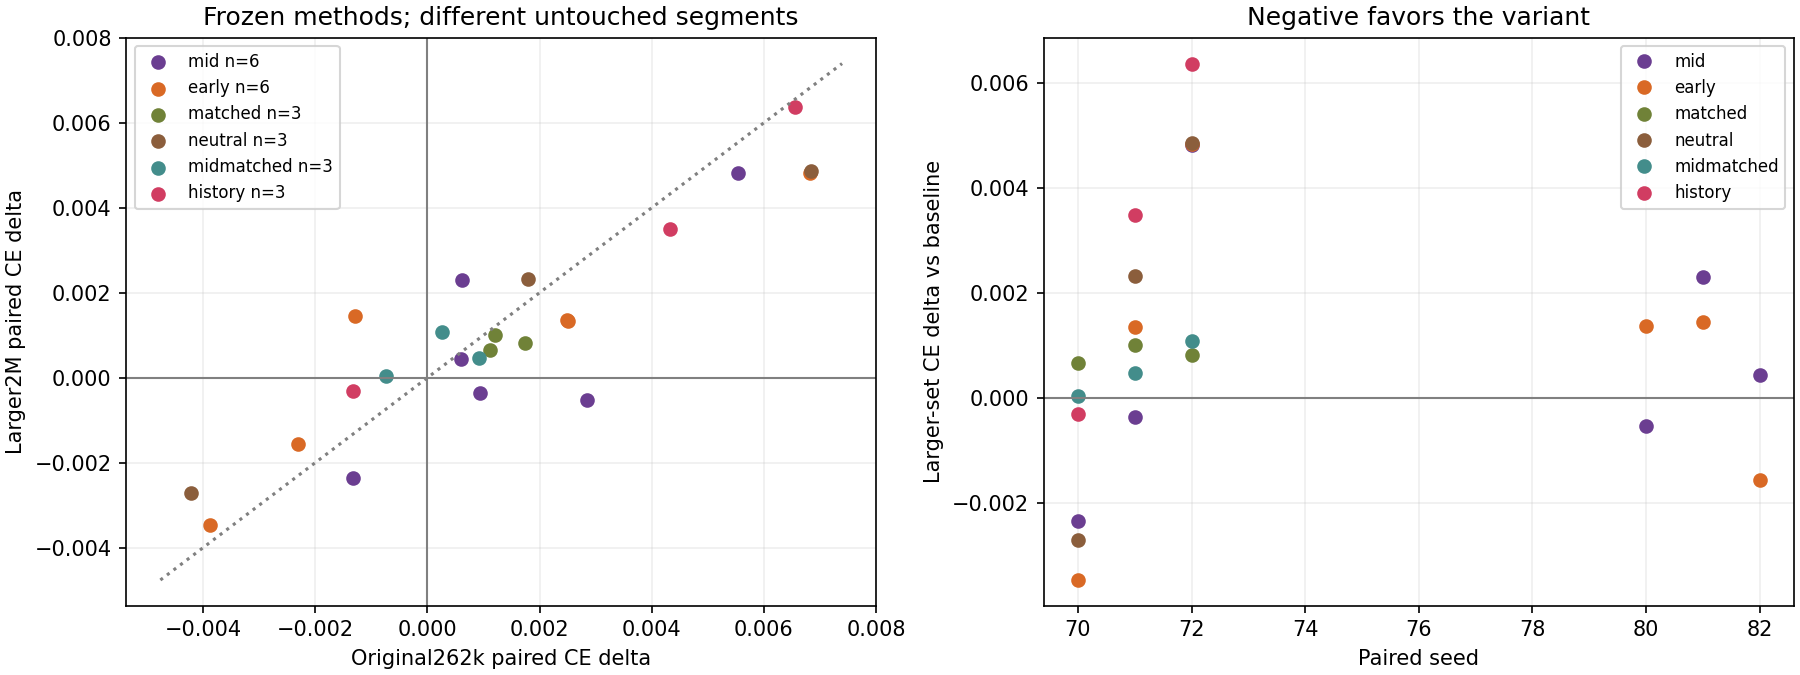
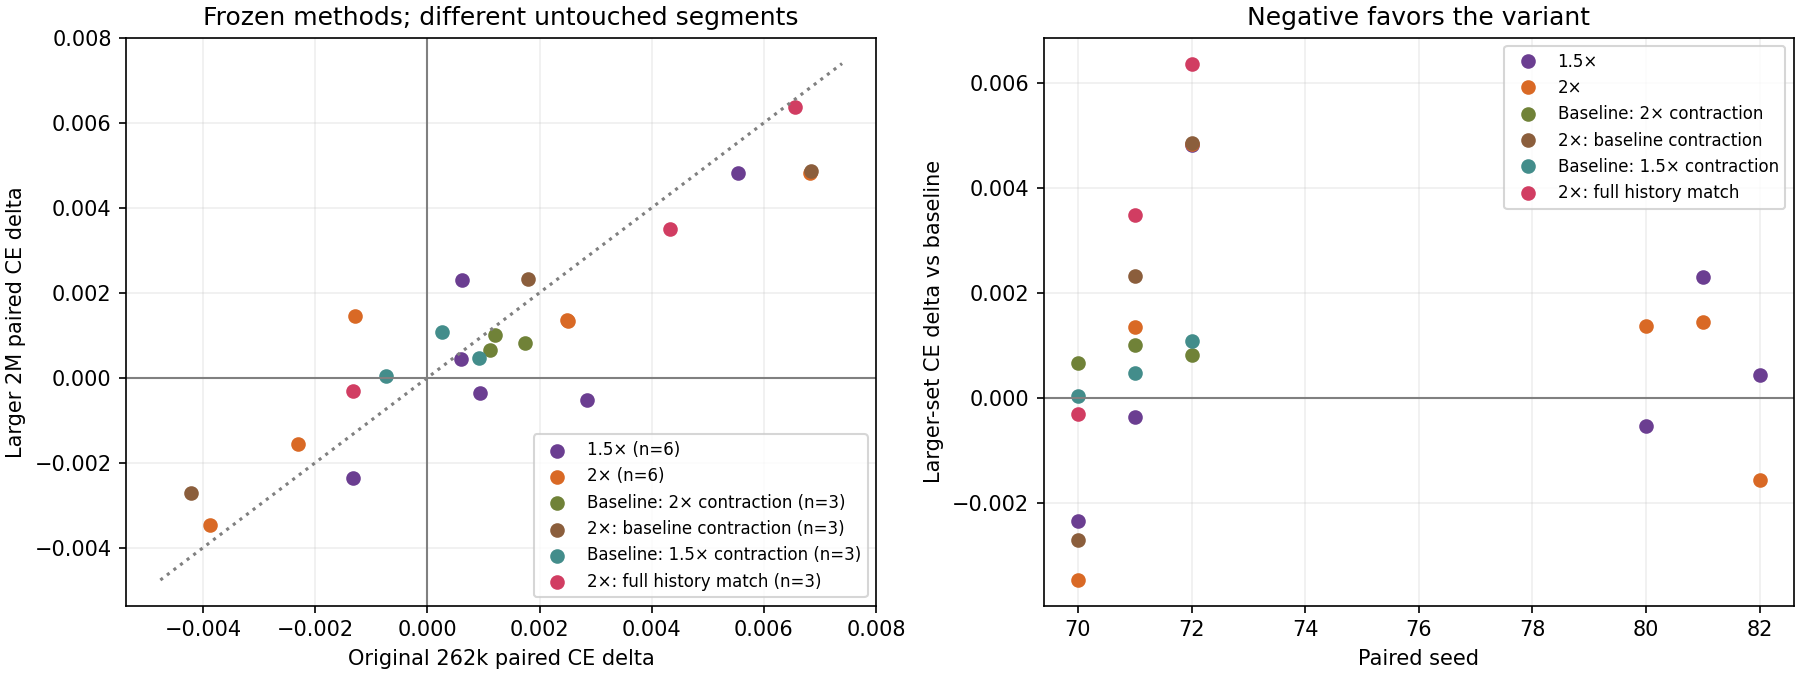
Use explicit early-peak and contraction labels in final research figures

diff --git a/research/unnormalized_muon/early_large_report.py b/research/unnormalized_muon/early_large_report.py
@@ -17,6 +17,7 @@ def main(name='um-earlyalloc-large-eval-001'):
     'This adds a new evaluation segment without replacing the original outcomes or changing any settings. Absolute CE differs across segments; compare paired method differences within a segment. The fixed-WD family has6seeds; contraction controls have3. Per-sequence nats/counts are retained outside Git; packed sequences can be dependent, so no independent-sequence significance claim is made.','',
     '| Seed | Arm | Original paired CE delta | Larger paired CE delta | Larger CE | Larger BPB |','|---|---|---:|---:|---:|---:|']
     stats={};fig,axs=plt.subplots(1,2,figsize=(12,4.5),layout='constrained')
+    labels=dict(mid='1.5×',early='2×',matched='Baseline: 2× contraction',neutral='2×: baseline contraction',midmatched='Baseline: 1.5× contraction',history='2×: full history match')
     colors=dict(mid='#6b3e91',early='#d96925',matched='#708238',neutral='#8b5e3c',midmatched='#438d8b',history='#d13d62')
     for r in sorted(scores,key=lambda r:(r['seed'],r['arm'])):
         b=lookup['baseline',r['seed']];old=r['original_heldout']['loss']-b['original_heldout']['loss'];new=r['large_heldout']['loss']-b['large_heldout']['loss']
@@ -26,8 +27,8 @@ def main(name='um-earlyalloc-large-eval-001'):
         assert len(rr)==(6 if arm in ['mid','early'] else 3)
         x=dict(n=len(rr),original_mean=statistics.mean(old),large_mean=statistics.mean(new),large_sample_sd=statistics.stdev(new),seeds=[r['seed'] for r in rr],large_deltas=new);stats[arm]=x
         lines+=['',f'{arm}: n={len(rr)}, original mean delta{x["original_mean"]:+.6f}; larger-set mean **{x["large_mean"]:+.6f}CE**, sampleSD **{x["large_sample_sd"]:.6f}**.']
-        axs[0].scatter(old,new,color=colors[arm],label=f'{arm} n={len(rr)}')
-        axs[1].plot([r['seed'] for r in rr],new,'o',color=colors[arm],label=arm)
+        axs[0].scatter(old,new,color=colors[arm],label=f'{labels[arm]} (n={len(rr)})')
+        axs[1].plot([r['seed'] for r in rr],new,'o',color=colors[arm],label=labels[arm])
     for arm,control in [('early','matched'),('mid','midmatched')]:
         rr=[r for r in scores if r['arm']==control];ds=[lookup[arm,r['seed']]['large_heldout']['loss']-r['large_heldout']['loss'] for r in rr]
         key=arm+'_vs_'+control;stats[key]=dict(n=len(ds),large_mean=statistics.mean(ds),large_sample_sd=statistics.stdev(ds),large_deltas=ds)
@@ -38,7 +39,7 @@ def main(name='um-earlyalloc-large-eval-001'):
     (D/'EARLY_ALLOCATION_LARGE_HELDOUT.md').write_text('\n'.join(lines)+'\n');(D/'EARLY_ALLOCATION_LARGE_HELDOUT.json').write_text(json.dumps(stats,indent=2)+'\n')
     limits=axs[0].axis();lo=min(limits[0],limits[2]);hi=max(limits[1],limits[3]);axs[0].plot([lo,hi],[lo,hi],':',color='gray')
     for ax in axs:ax.axhline(0,color='gray',lw=1);ax.grid(alpha=.2);ax.legend(fontsize=8)
-    axs[0].axvline(0,color='gray',lw=1);axs[0].set(xlabel='Original262k paired CE delta',ylabel='Larger2M paired CE delta',title='Frozen methods; different untouched segments')
+    axs[0].axvline(0,color='gray',lw=1);axs[0].set(xlabel='Original 262k paired CE delta',ylabel='Larger 2M paired CE delta',title='Frozen methods; different untouched segments')
     axs[1].set(xlabel='Paired seed',ylabel='Larger-set CE delta vs baseline',title='Negative favors the variant')
     fig.savefig(D/'EARLY_ALLOCATION_LARGE_HELDOUT.png',dpi=150);plt.close(fig)
 

diff --git a/research/unnormalized_muon/early_replication_report.py b/research/unnormalized_muon/early_replication_report.py
@@ -46,15 +46,15 @@ def main():
         available=[seed for seed in seeds if (arm,seed) in ss and len(curves[arm,seed])==4]
         if available:
             ys=np.asarray([[e['loss'] for e in curves[arm,s]] for s in available]);x=np.asarray([5000,10000,15000,20000])*32768/1e6
-            axs[0,0].plot(x,ys.mean(0),'.-',label=f'{arm} n={len(ys)}',color=col)
+            axs[0,0].plot(x,ys.mean(0),'.-',label=f'{dict(baseline="Baseline",mid="1.5×",early="2×")[arm]} (n={len(ys)})',color=col)
             if len(ys)>1:axs[0,0].fill_between(x,ys.mean(0)-ys.std(0,ddof=1),ys.mean(0)+ys.std(0,ddof=1),color=col,alpha=.1)
         if arm!='baseline':
             common=[s for s in available if ('baseline',s) in ss and len(curves['baseline',s])==4]
             if common:
-                ds=np.asarray([[a['loss']-b['loss'] for a,b in zip(curves[arm,s],curves['baseline',s])] for s in common]);axs[0,1].plot(x,ds.mean(0),'.-',color=col,label=arm)
+                ds=np.asarray([[a['loss']-b['loss'] for a,b in zip(curves[arm,s],curves['baseline',s])] for s in common]);axs[0,1].plot(x,ds.mean(0),'.-',color=col,label=dict(baseline="Baseline",mid="1.5×",early="2×")[arm])
                 if len(ds)>1:axs[0,1].fill_between(x,ds.mean(0)-ds.std(0,ddof=1),ds.mean(0)+ds.std(0,ddof=1),color=col,alpha=.1)
-            if deltas[arm]:axs[1,0].plot([r['seed'] for r in deltas[arm]],[r['delta'] for r in deltas[arm]],'o',color=col,label=arm)
-        if available:axs[1,1].scatter([seed for seed in available],[ss[arm,s][0]['fresh_tokens']/ss[arm,s][0]['training_active_seconds']/1e6 for s in available],color=col,label=arm)
+            if deltas[arm]:axs[1,0].plot([r['seed'] for r in deltas[arm]],[r['delta'] for r in deltas[arm]],'o',color=col,label=dict(baseline="Baseline",mid="1.5×",early="2×")[arm])
+        if available:axs[1,1].scatter([seed for seed in available],[ss[arm,s][0]['fresh_tokens']/ss[arm,s][0]['training_active_seconds']/1e6 for s in available],color=col,label=dict(baseline="Baseline",mid="1.5×",early="2×")[arm])
     for ax in axs.flat:ax.grid(alpha=.2);ax.legend()
     axs[0,0].set(xlabel='Fresh tokens (million)',ylabel='Development CE',title='Mean ± sample SD')
     axs[0,1].set(xlabel='Fresh tokens (million)',ylabel='Paired development CE delta',title='Early arm minus baseline');axs[0,1].axhline(0,color='gray',lw=1)
